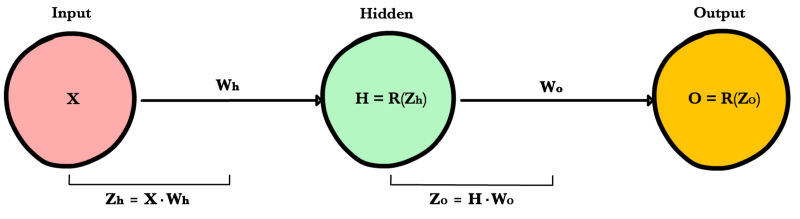
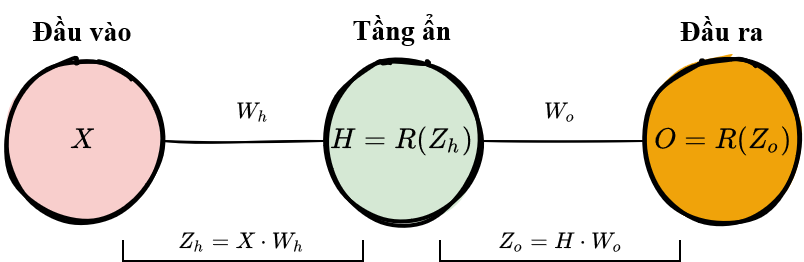
Dịch phần Lan truyền ngược (#18)
* add translation for backprop

* add translation for backprop

* remove unnecessary image

* minor revise

* translate used images

* remove unnecessary images

diff --git a/docs/backpropagation_vn.rst b/docs/backpropagation_vn.rst
@@ -1,0 +1,213 @@
+.. _backpropagation:
+
+====================================
+Lan truyền ngược - *Backpropagation*
+====================================
+
+.. contents:: :local:
+
+Mục đích của quá trình lan truyền ngược khá hiển nhiên: điều chỉnh hay cập nhật trọng số của mạng tuỳ vào ảnh hưởng của nó tới tổng lỗi dự đoán của mạng.
+Nếu ta có thể liên tục làm giảm lỗi dự đoán của từng trọng số, cuồi cùng ta sẽ thu được một tập trọng số mà có thể đưa ra dự đoán đủ tốt.
+
+
+Nhắc lại về Quy tắc chuỗi - *Chain rule*
+========================================
+
+Như đã đề cập trong :doc:`forwardpropagation_vn`, quá trình lan truyền xuôi có thể được coi là một chuỗi các hàm số lồng nhau.
+Theo cách hiểu này, lan truyền ngược (*backpropagation*) gần như là một phương pháp ứng dụng :ref:`chain_rule` để tìm :ref:`derivative` của hàm chi phí theo bất cứ biến số (hay các trọng số) nào trong các hàm số lồng nhau đó.
+Cho hàm lan truyền xuôi có dạng:
+
+.. math::
+
+    f(x) = A(B(C(x)))
+
+A, B, và C là các hàm kích hoạt tại các tầng khác nhau trong mạng. Sử dụng quy tắc chuỗi, ta có thể dễ dàng tính được đạo hàm của :math:`f(x)` theo :math:`x`:
+
+.. math::
+
+    f'(x) = f'(A) \cdot A'(B) \cdot B'(C) \cdot C'(x)
+
+Vậy còn đạo hàm theo hàm :math:`B` thì sao?
+Để tính đạo hàm này, ta có thể coi :math:`B(C(x))` là hằng số, thay bằng biến tạm thời :math:`B`, và tính đạo hàm của :math:`f(x)` theo biến :math:`B`.
+
+.. math::
+
+    f'(B) = f'(A) \cdot A'(B)
+
+Phương pháp đơn giản này giúp mở rộng quy tắc chuỗi để ta có thể tính được đạo hàm theo bất cứ biến nào trong hàm hợp, cho phép ta xác định chính xác ảnh hưởng của từng biến lên đầu ra dự đoán của mạng.
+
+
+Áp dụng quy tắc chuỗi
+=====================
+
+Hãy cùng sử dụng quy tắc chuỗi để tính đạo hàm của hàm chi phí theo bất kỳ trọng số nào trong mạng.
+Quy tắc chuỗi giúp ta xác định ảnh hưởng của từng trọng số lên lỗi dự đoán và hướng cập nhật cho từng trọng số để giảm lỗi.
+Các phương trình sau là các phương trình được sử dụng trong quá trình dự đoán và xác định lỗi dự đoán của mạng.
+
++-----------------------+-----------------------------------------+---------------------------------------------------------------------------------------+
+| Hàm số                | Công thức                               | Đạo hàm                                                                               |
++=======================+=========================================+=======================================================================================+
+| Đánh trọng số đầu vào | :math:`Z = XW`                          | :math:`\begin{align} Z'(X) & = W \\Z'(W) & = X\end{align}`                            |
++-----------------------+-----------------------------------------+---------------------------------------------------------------------------------------+
+| Kích hoạt ReLU        | :math:`R = \max(0, Z)`                  | :math:`R'(Z) = \begin{cases} 0 \text{ khi } Z<0 \\ 1 \text{ khi } Z>0 \\ \end{cases}` |
++-----------------------+-----------------------------------------+---------------------------------------------------------------------------------------+
+| Hàm chi phí           | :math:`C = \frac{1}{2} (\hat{y} - y)^2` | :math:`C'(\hat{y}) = \hat{y} - y`                                                     |
++-----------------------+-----------------------------------------+---------------------------------------------------------------------------------------+
+
+Cho một mạng chỉ có 1 nơ-ron duy nhất, tổng chi phí của mạng có thể được tính bằng:
+
+.. math::
+
+    \text{Chi phí} = C(R(Z(X W)))
+
+Sử dụng quy tắc chuỗi, ta có thể dễ dàng tính đạo hàm của chi phí theo trọng số :math:`W` bằng:
+
+.. math::
+
+    C'(W) &= C'(R) \cdot R'(Z) \cdot Z'(W) \\
+          &= (\hat{y} -y) \cdot R'(Z) \cdot X
+
+Giờ quay lại với trường hợp mạng nơ-ron đơn giản 1 tầng ẩn.
+
+.. image:: images/simple_nn_diagram_zo_zh_defined.png
+    :align: center
+    :height: 262 px
+    :width: 804 px
+    :scale: 65 %
+
+Đạo hàm của hàm chi phí theo :math:`W_o` bằng
+
+.. math::
+
+    C'(W_O) &= C'(\hat{y}) \cdot \hat{y}'(Z_O) \cdot Z_O'(W_O) \\
+            &= (\hat{y} - y) \cdot R'(Z_O) \cdot H
+
+Còn đạo hàm theo :math:`W_h` thì sao?
+Để tính đạo hàm này, ta tiếp tục áp dụng quy tắc chuỗi cho tới khi ta thu được đạo hàm theo biến :math:`Wh`.
+
+.. math::
+
+    C'(W_h) &= C'(\hat{y}) \cdot O'(Z_o) \cdot Z_o'(H) \cdot H'(Z_h) \cdot Z_h'(W_h) \\
+            &= (\hat{y} - y) \cdot R'(Z_o) \cdot W_o \cdot R'(Z_h) \cdot X
+
+Hãy thử 1 ví dụ khá thú vị với mạng nơ-ron 10 tầng ẩn. Đạo hàm của hàm chi phí với trọng số đầu tiên :math:`w_1` sẽ có dạng thế nào?
+
+.. math::
+
+    C'(w_1) = \frac{dC}{d\hat{y}} \cdot \frac{d\hat{y}}{dZ_{11}} \cdot \frac{dZ_{11}}{dH_{10}} \cdot \\ \frac{dH_{10}}{dZ_{10}} \cdot \frac{dZ_{10}}{dH_9} \cdot \frac{dH_9}{dZ_9} \cdot \frac{dZ_9}{dH_8} \cdot \frac{dH_8}{dZ_8} \cdot \frac{dZ_8}{dH_7} \cdot \frac{dH_7}{dZ_7} \cdot \\ \frac{dZ_7}{dH_6} \cdot \frac{dH_6}{dZ_6} \cdot \frac{dZ_6}{dH_5} \cdot \frac{dH_5}{dZ_5} \cdot \frac{dZ_5}{dH_4} \cdot \frac{dH_4}{dZ_4} \cdot \frac{dZ_4}{dH_3} \cdot \\ \frac{dH_3}{dZ_3} \cdot \frac{dZ_3}{dH_2} \cdot \frac{dH_2}{dZ_2} \cdot \frac{dZ_2}{dH_1} \cdot \frac{dH_1}{dZ_1} \cdot \frac{dZ_1}{dW_1}
+
+Số lượng phép tính cần thực hiện để tính đạo hàm tăng lên theo chiều sâu của mạng.
+Tuy nhiên chú ý rằng phép tính này bị dư thừa rất nhiều.
+Đạo hàm hàm chi phí tại mỗi tầng thì sẽ có thêm 2 số hạng so với biểu thức tính đạo hàm mà đã được tính bởi tầng trước nó.
+Vậy thì liệu có cách nào có thể lưu lại giá trị tính bởi tầng trước để tránh bị lặp lại khi thực hiện đạo hàm cho tầng đằng sau không?
+
+Để tăng tốc độ tính toán các đạo hàm theo phương pháp lan truyền ngược, ta có thể lưu các giá trị đạo hàm đã tính ở tầng trước để tránh việc tính lại hàm đó khi tính đạo hàm cho tầng sau.
+Chú ý rằng các công thức tính đạo hàm cho từng tầng có dạng như sau.
+
+.. image:: images/memoization.png
+    :align: center
+    :scale: 70 %
+
+Mỗi tầng này đều có chung các thành phần đạo hàm.
+Do vậy, thay vì viết dạng đầy đủ công thức tính đạo hàm cho từng trọng số, ta có thể lưu lại kết quả của biểu thức đạo hàm của tầng trước đó trong quá trình "lan truyền ngược" theo kiến trúc mạng.
+
+Trước tiên, ta tính lỗi tầng của tầng đầu ra và truyền kết quả vê tầng ẩn trước đó để sử dụng cho việc tính lỗi tầng của tầng ẩn.
+Sau khi tính lỗi tầng của tầng ẩn, ta truyền giá trị lỗi này về tầng ẩn trước đó, và cứ tiếp tục cho đến hết tất cả các tầng của mạng.
+Trong quá trính lan truyền ngược theo kiến trúc mạng, ta áp dụng công thức đạo hàm hàm chi phí để tính đạo hàm theo các trọng số của tầng đó.
+Các đạo hàm thu được sẽ giúp chỉ ra hướng mà trọng số cần được cập nhật để giảm chi phí dự đoán.
+
+.. note::
+
+    Khái niệm *lỗi tầng (layer error)* ý chỉ đạo hàm của hàm chi phí theo *đầu vào* của một tầng trong mạng.
+    Giá trị này giúp trả lời câu hỏi: Đầu ra của hàm chi phí thay đổi như thế nào khi đầu vào của tầng đó thay đổi?
+
+.. rubric:: Lỗi tầng đầu ra
+
+Để tính lỗi tầng đầu ra, ta cần tìm đạo hàm hàm chi phí theo đầu vào của tầng đầu ra, :math:`Z_o`.
+Đạo hàm này (hay lỗi tầng đầu ra) giúp trả lời câu hỏi: các trọng số của tầng cuối cùng này ảnh hưởng thế nào lên lỗi của toàn mạng?
+Đạo hàm này được tính theo công thức:
+
+.. math::
+
+  C'(Z_o) = (\hat{y} - y) \cdot R'(Z_o)
+
+Để đơn giản hoá phương trình trên, người ta thường ký hiệu biểu thức :math:`(\hat{y}-y) * R'(Zo)` bằng :math:`E_o`.
+Lúc này, phương trình tính lỗi tầng đầu ra có dạng:
+
+.. math::
+
+    E_o = (\hat{y} - y) \cdot R'(Z_o)
+
+.. rubric:: Lỗi tầng ẩn
+
+Để tính lỗi tầng của các tầng ẩn, ta cần tính đạo hàm hàm chi phí theo đầu vào của các tầng ẩn, :math:`Zh`.
+
+.. math::
+
+    C'(Z_h) = (\hat{y} - y) \cdot R'(Z_o) \cdot W_o \cdot R'(Z_h)
+
+Sau đó, ta có thể ký hiệu biểu thức trên thông qua :math:`E_o` để đơn giản hoá phương trình tính lỗi tầng :math:`E_h` cho các tầng ẩn.
+
+.. math::
+
+  E_h = E_o \cdot W_o \cdot R'(Z_h)
+
+Phương trình này là trọng tâm của kỹ thuật lan truyền ngược.
+Ta tính lỗi tầng hiện tại, đánh trọng số và truyền lỗi vừa tính về tầng phía trước, tiếp tục quá trình cho đến khi truyền tới tầng ẩn đầu tiên.
+Trong quá trình lan truyền, ta cập nhật các trọng số của từng tầng dựa theo đạo hàm hàm chi phí theo từng trọng số.
+
+.. rubric:: Đạo hàm của chi phí theo bất kỳ trọng số nào
+
+Hãy quay trở lại với phương trình đạo hàm của hàm chi phí theo trọng số tại tầng đầu ra :math:`W_o`.
+
+.. math::
+
+  C'(W_O) = (\hat{y} - y) \cdot R'(Z_O) \cdot H
+
+Ta biết rằng ta có thể thay vế đầu tiên trong phương trình bằng lỗi tầng đầu ra :math:`E_o`, với :math:`H`là kích hoạt tầng ẩn.
+
+.. math::
+
+  C'(W_o) = E_o \cdot H
+
+Do đó để tính đạo hàm của chi phí theo bất kỳ trọng số nào trong mạng, ta chỉ đơn giản nhân lỗi tầng của tầng tương ứng với đầu vào tại nơ-ron đó (tức là đầu ra của tầng phía trước).
+
+.. math::
+
+  C'(w) = \text{Lỗi tầng hiện tại} \cdot \text{Đầu vào tầng hiện tại}
+
+.. note::
+
+  *Đầu vào* ám chỉ giá trị kích hoạt trả về bởi tầng trước đó, không phải là đầu vào được đánh trọng số :math:`Z`.
+
+.. rubric:: Tổng kết
+
+Dưới đây là 3 phương trình mà cùng nhau tạo thành nền tảng của kỹ thuật lan truyền ngược.
+
++-------------------------------+-------------------------------------------+
+| Lỗi tầng đầu ra               | :math:`E_o = (O - y) \cdot R'(Z_o)`       |
++-------------------------------+-------------------------------------------+
+| Lỗi tầng ẩn                   | :math:`E_h = E_o \cdot W_o \cdot R'(Z_h)` |
++-------------------------------+-------------------------------------------+
+| Đạo hàm chi phí theo trọng số | :math:`=` Lỗi tầng :math:`\cdot` Đầu vào  |
++-------------------------------+-------------------------------------------+
+
+Dưới đây là một ví dụ minh hoá quá trình trên sử dụng mô hình mạng nơ-ron đơn giản.
+
+.. image:: images/backprop_visually.png
+    :align: center
+    :height: 432 px
+    :width: 1416 px
+    :scale: 50 %
+
+Ví dụ code
+==========
+
+.. literalinclude:: ../code/nn_simple.py
+    :language: python
+    :lines: 17-41
+
+
+.. rubric:: Tài liệu tham khảo
+
+.. [1] ...
